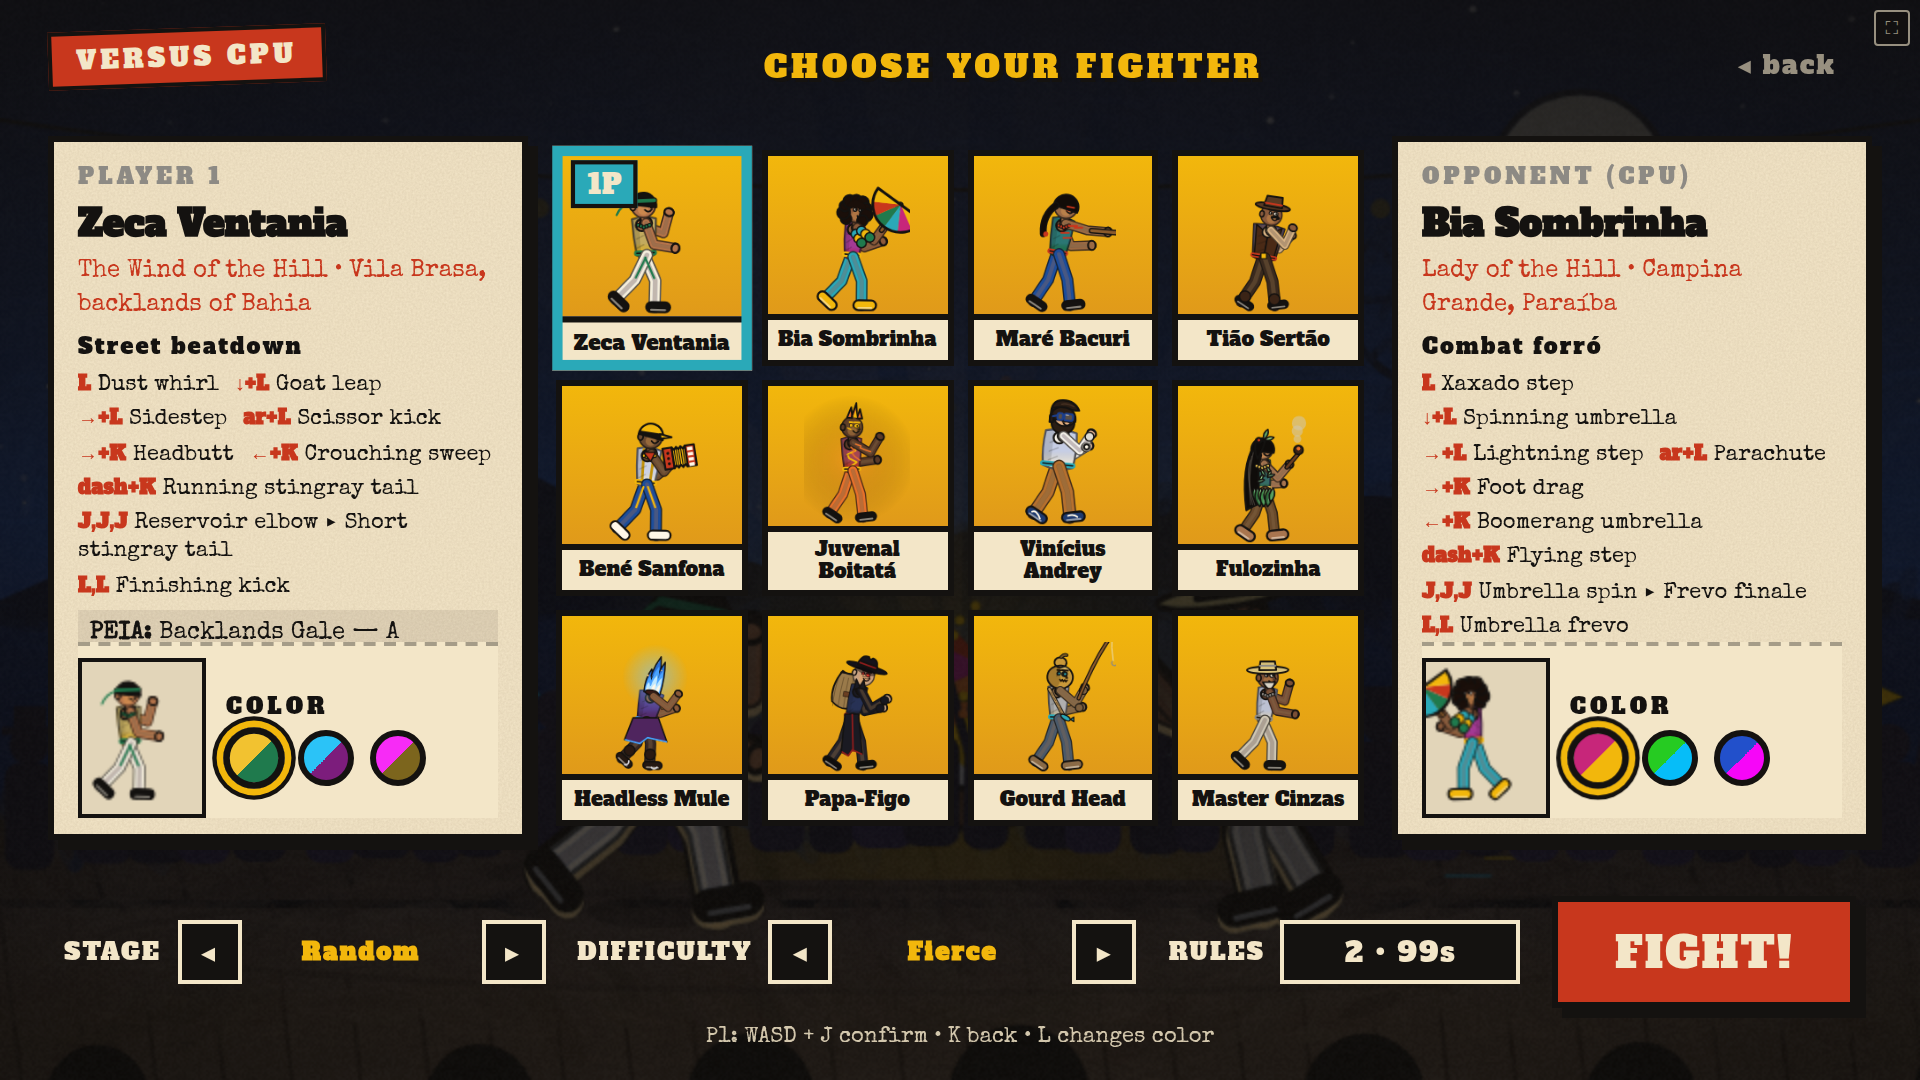
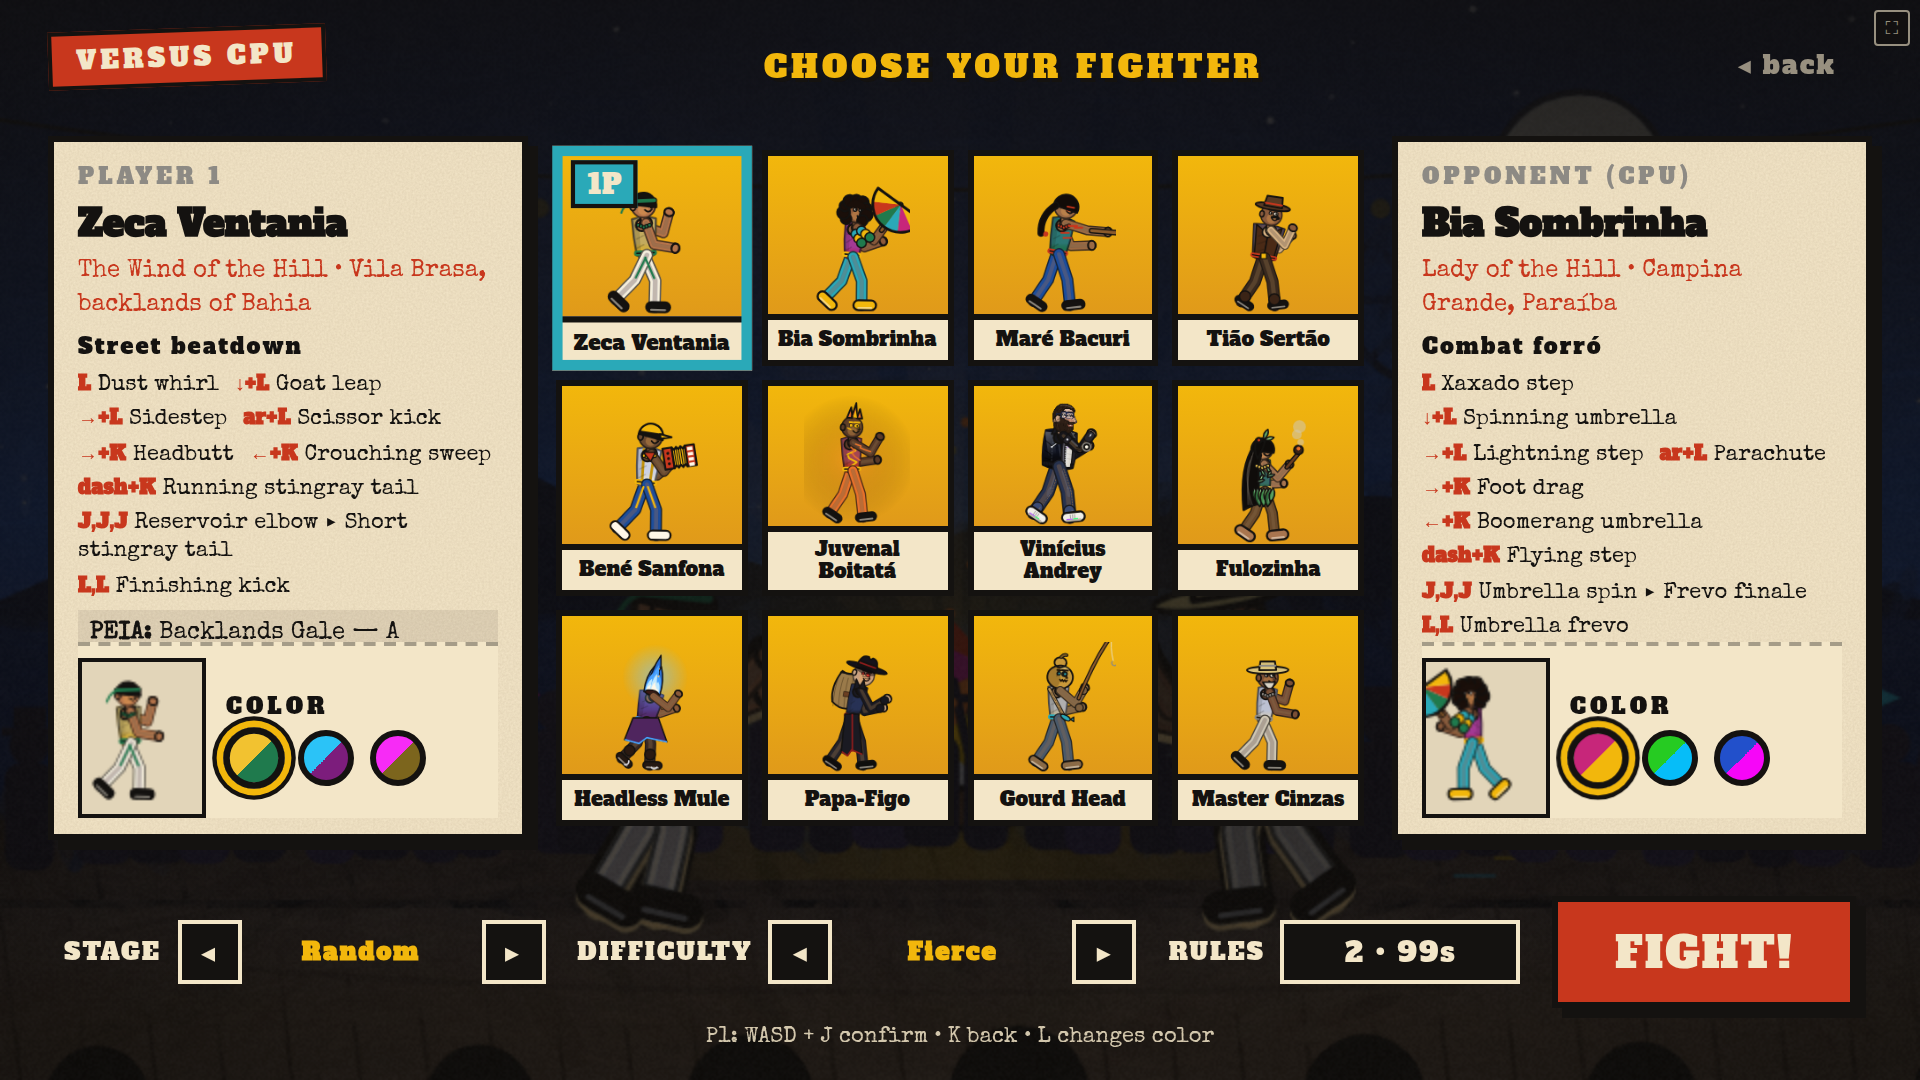
Vinícius 1.8: recompila o pacote web/service worker e atualiza a captura da seleção da loja
Claude-Session: https://claude.ai/code/session_01Gy3msufcqa37MNR8aboF2v

diff --git a/sertao-fight-brasil/sw.js b/sertao-fight-brasil/sw.js
@@ -1,6 +1,6 @@
 'use strict';
 // Gerado por tools/build_web.py — não edite à mão. Cache offline do jogo.
-const CACHE = 'sfb-1.8-d99f1a82';
+const CACHE = 'sfb-1.8-d51f67eb';
 const FILES = ['./css/style.css', './fonts/AlfaSlabOne-Regular.ttf', './fonts/SpecialElite-Regular.ttf', './icons/favicon.png', './icons/icon-192.png', './icons/icon-256.png', './icons/icon-512.png', './icons/icon-64.png', './index.html', './js/achievements.js', './js/ai.js', './js/audio.js', './js/comp.js', './js/fighter.js', './js/fighters.js', './js/framedata.js', './js/game.js', './js/i18n.js', './js/input.js', './js/lang/comp.js', './js/lang/extras.js', './js/lang/fighters.js', './js/lang/story.js', './js/lang/ui.js', './js/logo.js', './js/main.js', './js/modes.js', './js/paint.js', './js/poses.js', './js/render.js', './js/replay.js', './js/stages.js', './js/story.js', './js/tourney.js', './js/ui.js', './js/ui2.js', './js/ui3.js', './js/ui4.js', './js/util.js', './js/vinicius.js', './manifest.webmanifest'];
 self.addEventListener('install', e => { e.waitUntil(caches.open(CACHE).then(c => c.addAll(FILES)).then(() => self.skipWaiting())); });
 self.addEventListener('activate', e => { e.waitUntil(caches.keys().then(ks => Promise.all(ks.filter(k => k !== CACHE).map(k => caches.delete(k)))).then(() => self.clients.claim())); });
